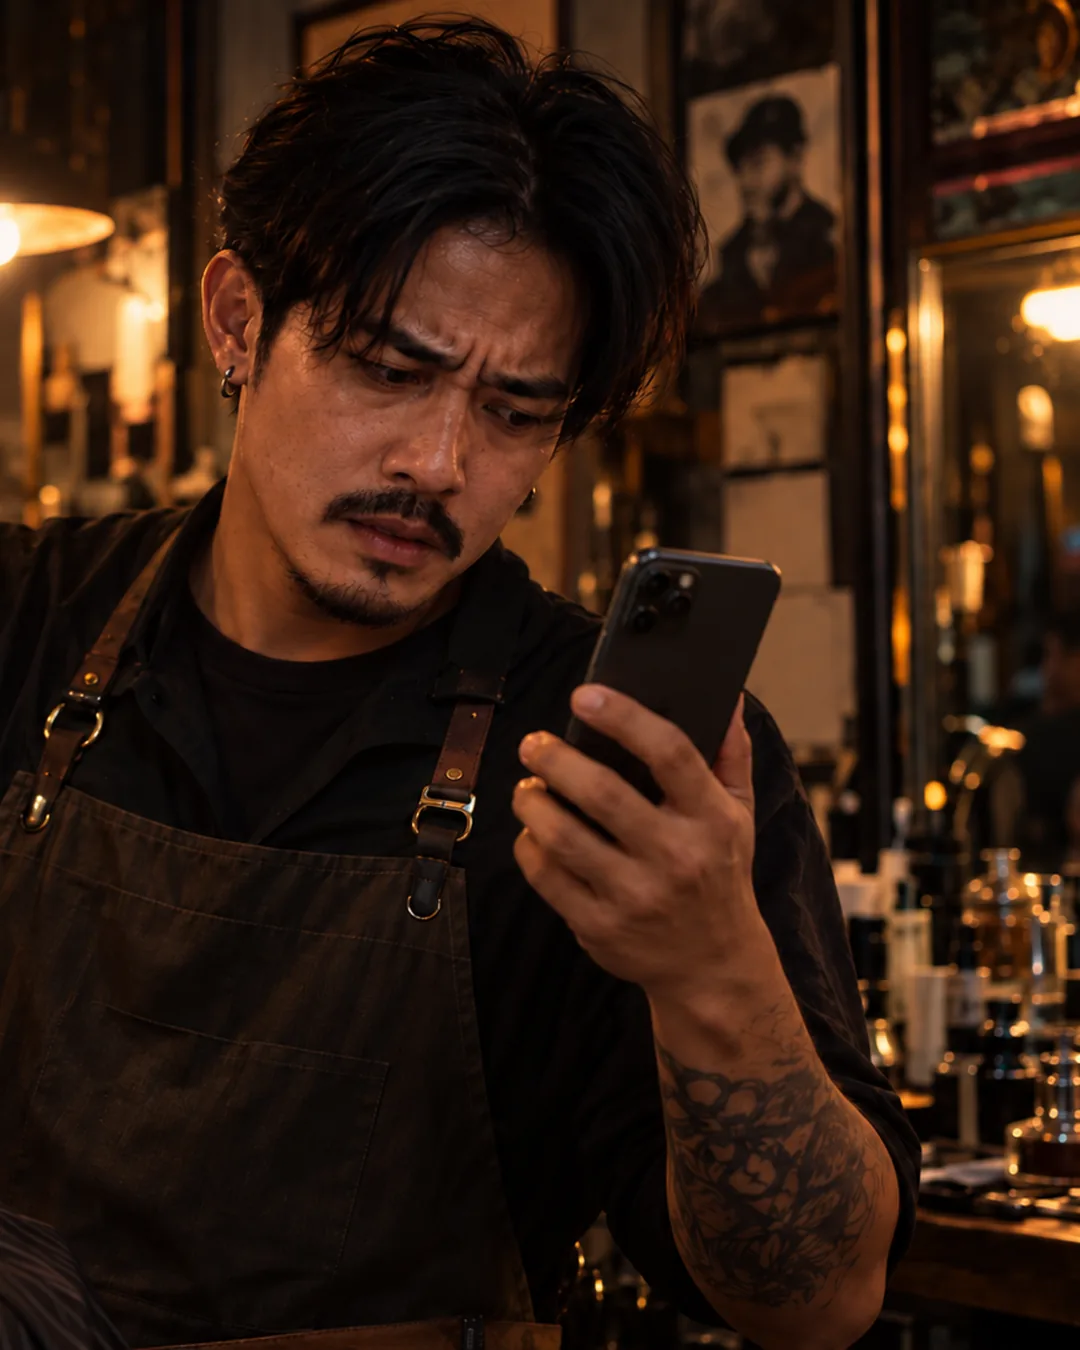
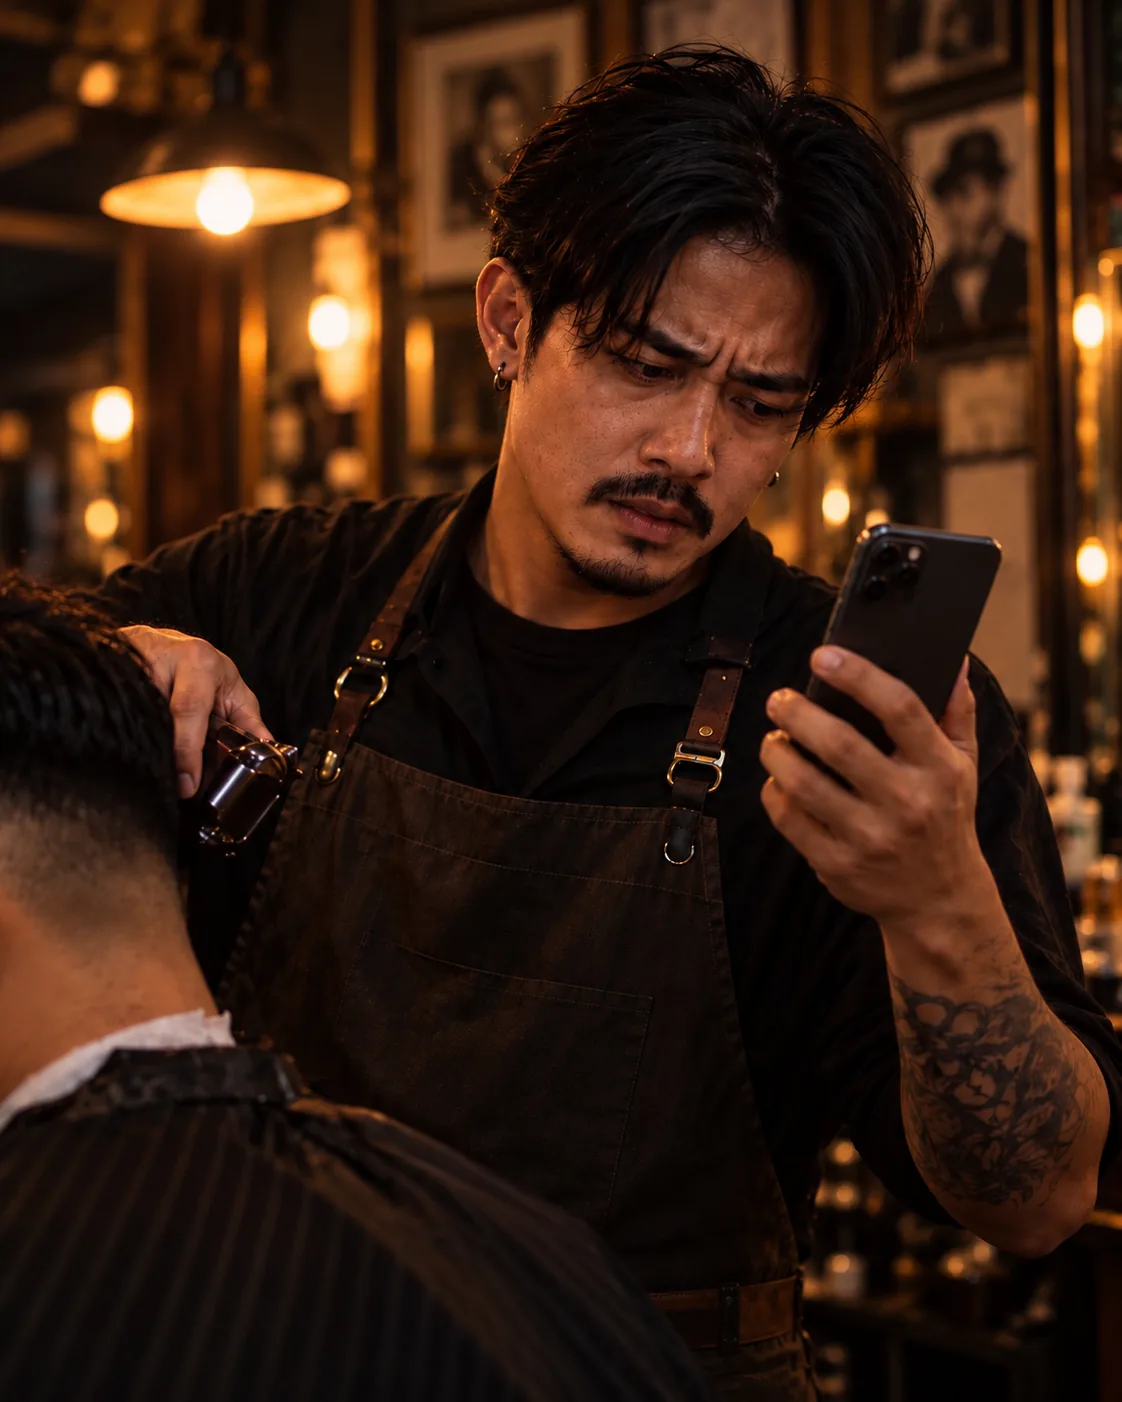
Pain section v2: Tommy cutting photo + mobile bubble stack
Replace pain-barber with Tommy’s clippers+phone plate (webp+PNG).
Mobile (<lg): 4:5, two LINE cards + peeking stack, bottom gradient.
Desktop keeps 5:6 with two bottom-band notifications clear of face,
phone, and clippers. Thai Pain nowrap phrases unchanged.

diff --git a/src/components/marketing/mockups/PainStormVisual.tsx b/src/components/marketing/mockups/PainStormVisual.tsx
@@ -4,7 +4,35 @@ import Image from "next/image";
 import { MarketingPhotoSlot } from "@/components/marketing/MarketingPhotoSlot";
 import { marketingPhotoSlots } from "@/lib/marketing/photo-slots";
 
-/** Option C — photo with 99+ badge + LINE notification storm over the lower half. */
+function LineBubble({
+  text,
+  time,
+  opacity = 1,
+  className = "",
+}: {
+  text: string;
+  time: string;
+  opacity?: number;
+  className?: string;
+}) {
+  return (
+    <div
+      className={`flex h-12 w-[300px] max-w-[calc(100%-24px)] items-center gap-2.5 rounded-2xl border border-zinc-700/50 bg-zinc-900/88 pl-2 pr-3 shadow-[0_12px_28px_rgba(0,0,0,0.45)] backdrop-blur-sm ${className}`}
+      style={{ opacity }}
+    >
+      <span
+        className="flex h-8 w-8 shrink-0 items-center justify-center rounded-[9px] text-[9px] font-bold tracking-tight text-white"
+        style={{ backgroundColor: "#06C755" }}
+      >
+        LINE
+      </span>
+      <p className="min-w-0 flex-1 text-[15px] font-medium leading-snug text-zinc-100">{text}</p>
+      <span className="shrink-0 text-[12px] tabular-nums text-zinc-400">{time}</span>
+    </div>
+  );
+}
+
+/** Option C — photo with 99+ badge + LINE notification storm (mobile v2 / desktop clear subjects). */
 export function PainStormVisual({
   messages,
   times,
@@ -19,22 +47,24 @@ export function PainStormVisual({
   className?: string;
 }) {
   const slot = marketingPhotoSlots.painBarber;
-  /** Older notifications fade: 09:14 → 17:48 */
-  const opacities = [0.6, 0.75, 0.9, 1] as const;
+  /** Desktop: 2 bubbles (first + last of day) in the bottom band — clear of face / phone / clippers. */
+  const desktopIdx = [0, 3] as const;
+  const desktopOpacities = [0.8, 1] as const;
 
   return (
     <div
       aria-hidden="true"
       className={`relative w-full max-w-[420px] justify-self-center lg:max-w-none lg:justify-self-end ${className}`}
     >
-      <div className="relative aspect-[5/6] w-full overflow-hidden rounded-[28px] bg-zinc-900">
+      {/* Mobile: 4:5 · Desktop layout C: 5:6 */}
+      <div className="relative aspect-[4/5] w-full overflow-hidden rounded-[28px] bg-zinc-900 lg:aspect-[5/6]">
         {slot.src ? (
           <Image
             src={slot.src}
             alt={alt}
             fill
             sizes="(min-width: 1280px) 44vw, (min-width: 1024px) 420px, 90vw"
-            className="object-cover object-[68%_22%]"
+            className="object-cover object-[50%_0%]"
             priority={false}
           />
         ) : (
@@ -43,13 +73,23 @@ export function PainStormVisual({
             alt={alt}
             fill
             sizes="(min-width: 1280px) 44vw, 90vw"
+            objectPosition="50% 0%"
             className="h-full w-full rounded-none border-0"
           />
         )}
 
-        {/* 260px bottom fade — notifications sit on apron, not face/phone */}
+        {/* Mobile gradient (v2): 170px transparent → 75% at 45% → #09090b */}
         <div
-          className="pointer-events-none absolute inset-x-0 bottom-0 h-[180px] bg-gradient-to-t from-zinc-950 via-zinc-950/75 to-transparent sm:h-[220px] lg:h-[260px]"
+          className="pointer-events-none absolute inset-x-0 bottom-0 h-[170px] lg:hidden"
+          style={{
+            background:
+              "linear-gradient(to bottom, transparent 0%, rgba(9,9,11,0.75) 45%, #09090b 100%)",
+          }}
+          aria-hidden
+        />
+        {/* Desktop: bottom fade — notifications sit on apron only */}
+        <div
+          className="pointer-events-none absolute inset-x-0 bottom-0 hidden h-[38%] bg-gradient-to-t from-zinc-950 via-zinc-950/85 to-transparent lg:block"
           aria-hidden
         />
 
@@ -57,13 +97,44 @@ export function PainStormVisual({
           {unreadLabel}
         </span>
 
-        {/* Keep left inset ≥ logo size so LINE badges aren’t clipped by overflow-hidden */}
-        <div className="absolute bottom-4 left-3 right-3 z-10 flex flex-col gap-2 sm:bottom-5 sm:left-4 sm:right-4 lg:left-5 lg:gap-2.5">
-          {messages.map((text, i) => (
+        {/*
+          Mobile v2: 2 bubbles + peeking “more” cards.
+          Bottom-anchored (bottom-4 + gap-2 + two h-12) → top ≈ 318 @390 (350×438).
+        */}
+        <div
+          className="absolute bottom-4 left-3 z-10 flex flex-col gap-2 lg:hidden"
+          aria-hidden
+        >
+          <LineBubble
+            text={messages[0] ?? ""}
+            time={times[0] ?? ""}
+            opacity={0.85}
+          />
+          <div className="relative">
+            {/* Ghost 2: inset 16px, +12px */}
             <div
-              key={i}
-              className="flex max-w-[min(100%,22rem)] items-center gap-2.5 rounded-2xl border border-zinc-700/50 bg-zinc-900/85 px-3 py-2.5 shadow-[0_12px_28px_rgba(0,0,0,0.45)] backdrop-blur-sm sm:max-w-[20.5rem] lg:gap-3 lg:px-3.5 lg:py-3"
-              style={{ opacity: opacities[i] ?? 1 }}
+              className="pointer-events-none absolute inset-x-4 top-3 h-12 rounded-2xl border border-zinc-700 bg-zinc-800 opacity-35"
+              aria-hidden
+            />
+            {/* Ghost 1: inset 8px, +6px */}
+            <div
+              className="pointer-events-none absolute inset-x-2 top-1.5 h-12 rounded-2xl border border-zinc-700 bg-zinc-800 opacity-60"
+              aria-hidden
+            />
+            <LineBubble text={messages[3] ?? ""} time={times[3] ?? ""} opacity={1} />
+          </div>
+        </div>
+
+        {/* Desktop: 2 bubbles, lower-left bottom band on cape — clear of face, phone, clippers */}
+        <div
+          className="absolute bottom-4 left-5 z-10 hidden w-[min(100%-2.5rem,20.5rem)] flex-col gap-2 lg:flex"
+          aria-hidden
+        >
+          {desktopIdx.map((msgIdx, i) => (
+            <div
+              key={msgIdx}
+              className="flex items-center gap-2.5 rounded-2xl border border-zinc-700/50 bg-zinc-900/88 px-3 py-2.5 shadow-[0_12px_28px_rgba(0,0,0,0.45)] backdrop-blur-sm"
+              style={{ opacity: desktopOpacities[i] ?? 1 }}
             >
               <span
                 className="flex h-8 w-8 shrink-0 items-center justify-center rounded-[9px] text-[9px] font-bold tracking-tight text-white"
@@ -71,11 +142,11 @@ export function PainStormVisual({
               >
                 LINE
               </span>
-              <p className="min-w-0 flex-1 text-[15px] font-medium leading-snug text-zinc-100 lg:text-[17px]">
-                {text}
+              <p className="min-w-0 flex-1 text-[15px] font-medium leading-snug text-zinc-100 lg:text-[16px]">
+                {messages[msgIdx] ?? ""}
               </p>
               <span className="shrink-0 text-[12px] tabular-nums text-zinc-400 lg:text-[13px]">
-                {times[i] ?? ""}
+                {times[msgIdx] ?? ""}
               </span>
             </div>
           ))}

diff --git a/src/lib/i18n/dictionary.ts b/src/lib/i18n/dictionary.ts
@@ -393,7 +393,7 @@ export const dictionary = {
     "marketing.pain.unreadBadge": "99+",
     "marketing.pain.visualFooter": "คำถามเดิม ๆ • ทั้งวัน",
     "marketing.pain.photoAlt":
-      "ช่างตัดผมไทยกำลังตัดผม มือหนึ่งถือกรรไกรไฟฟ้า อีกมือถือมือถือเต็มไปด้วยแชท — ใบหน้าเครียด",
+      "ช่างตัดผมไทยกำลังตัดผมให้ลูกค้า มือหนึ่งถือกรรไกรไฟฟ้า อีกมือถือมือถืออ่านแชท",
     "marketing.line.eyebrow": "ลูกค้าจำร้านคุณได้ ตั้งแต่กดจอง",
     "marketing.line.title": "ข้อความเล็ก ๆ ใน LINE ที่ทำให้ลูกค้ารู้สึกว่าร้านใส่ใจ",
     "marketing.line.bullet1": "ยืนยันทันที + บัตรคิวใน LINE ส่งในนามร้านคุณ ลูกค้าไม่ต้องถามซ้ำว่า “จองติดไหม” (ร้านเปิด–ปิดได้)",
@@ -1491,7 +1491,7 @@ export const dictionary = {
     "marketing.pain.unreadBadge": "99+",
     "marketing.pain.visualFooter": "Same questions • all day",
     "marketing.pain.photoAlt":
-      "Thai barber mid-haircut, clippers in one hand and a phone flooded with chats in the other — stressed expression",
+      "Thai barber mid-haircut, clippers in one hand and a phone in the other while reading chats",
     "marketing.line.eyebrow": "Customers remember your shop from the moment they book",
     "marketing.line.title": "Small LINE messages that make customers feel cared for",
     "marketing.line.bullet1": "Instant confirmation + queue ticket in LINE under your shop’s name — no more “did my booking go through?” (shop can toggle this off)",

diff --git a/src/lib/marketing/layout.test.ts b/src/lib/marketing/layout.test.ts
@@ -263,7 +263,13 @@ describe("marketing layout split", () => {
     assert.match(storm, /unreadLabel/);
     assert.match(storm, /times/);
     assert.match(storm, /#06C755/);
-    assert.match(storm, /aspect-\[5\/6\]/);
+    assert.match(storm, /aspect-\[4\/5\]/);
+    assert.match(storm, /lg:aspect-\[5\/6\]/);
+    assert.match(storm, /object-\[50%_0%\]/);
+    assert.match(storm, /bottom-4 left-3/);
+    assert.match(storm, /gap-2/);
+    assert.match(storm, /lg:hidden/);
+    assert.match(storm, /hidden[\s\S]*?lg:flex/);
     assert.match(storm, /painBarber/);
     assert.equal(dictionary.th["marketing.pain.unreadBadge"], "99+");
     assert.equal(dictionary.en["marketing.pain.unreadBadge"], "99+");
@@ -277,12 +283,22 @@ describe("marketing layout split", () => {
     assert.match(sales, /มือไม่ว่างก็ต้องหยิบมือถือ/);
     assert.match(sales, /เห็นคิวเดียวกัน/);
     assert.equal(marketingPhotoSlots.painBarber.src, "/sale/pain-barber.webp");
+    assert.equal(
+      marketingPhotoSlots.painBarber.fallbackSrc,
+      "/sale/pain-barber.png",
+    );
     assert.equal(marketingPhotoSlots.painBarber.swapPath, "/sale/pain-barber.webp");
-    assert.match(marketingPhotoSlots.painBarber.labelTh, /รูปช่างเหนื่อย/);
+    assert.equal(marketingPhotoSlots.painBarber.width, 1122);
+    assert.equal(marketingPhotoSlots.painBarber.height, 1402);
+    assert.match(marketingPhotoSlots.painBarber.labelTh, /กรรไกรไฟฟ้า/);
     assert.equal(marketingPhotoSlots.painBarber.ratio, "4:5");
     assert.ok(
       existsSync(resolve(root, "../public/sale/pain-barber.webp")),
       "pain-barber.webp missing",
+    );
+    assert.ok(
+      existsSync(resolve(root, "../public/sale/pain-barber.png")),
+      "pain-barber.png missing",
     );
     assert.doesNotMatch(sales, /from: "shop"/);
     assert.doesNotMatch(storm, /from: "shop"|shopLabel/);

diff --git a/src/lib/marketing/photo-slots.ts b/src/lib/marketing/photo-slots.ts
@@ -104,12 +104,14 @@ export const marketingPhotoSlots: Record<MarketingPhotoSlotId, MarketingPhotoSlo
   painBarber: {
     id: "painBarber",
     src: "/sale/pain-barber.webp",
+    fallbackSrc: "/sale/pain-barber.png",
     swapPath: "/sale/pain-barber.webp",
-    width: 1080,
-    height: 1350,
+    width: 1122,
+    height: 1402,
     ratio: "4:5",
-    labelTh: "รูปช่างเหนื่อย ถือมือถือแชทเด้ง 4:5 1080×1350",
-    artNote: "Stressed Thai barber mid-cut, clippers + phone flooded with LINE chats",
+    labelTh: "รูปช่างตัดผมถือกรรไกรไฟฟ้าและมือถือ 4:5 1122×1402",
+    artNote:
+      "1122×1402 · Tommy pain-barber-cutting · clippers left + phone right mid-cut · PNG fallback /sale/pain-barber.png",
   },
   solutionCustomer: {
     id: "solutionCustomer",
